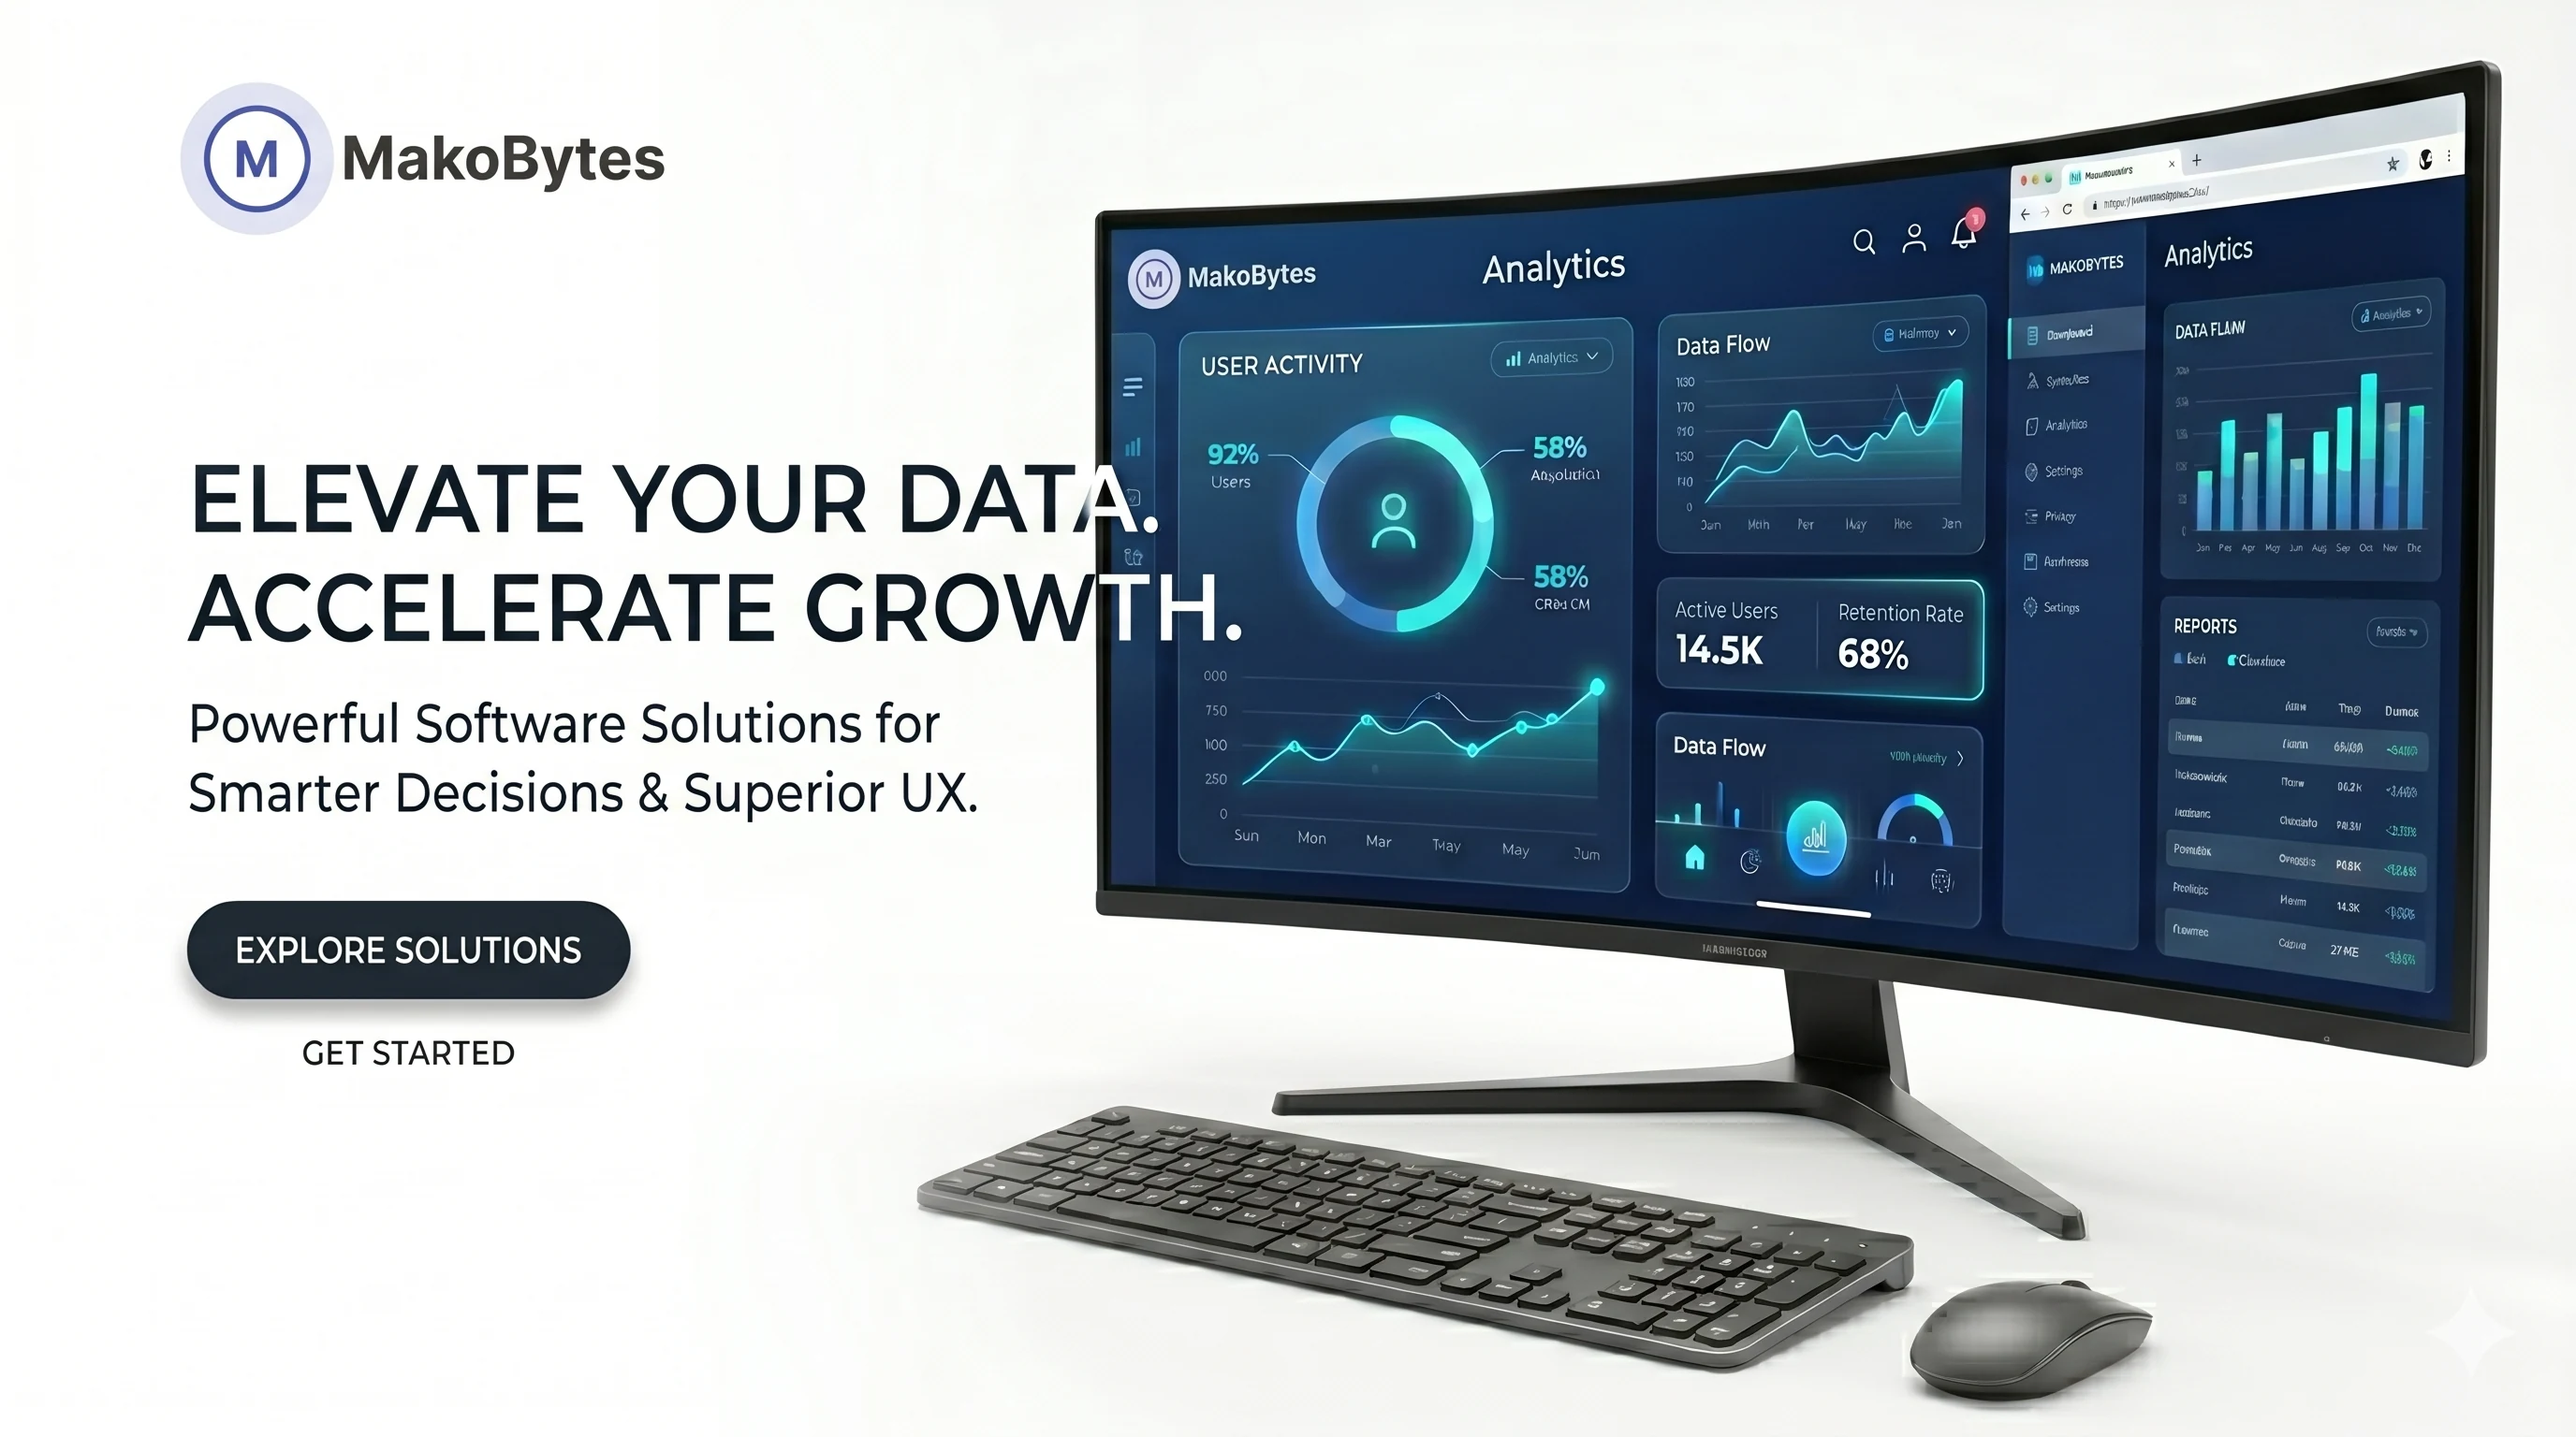
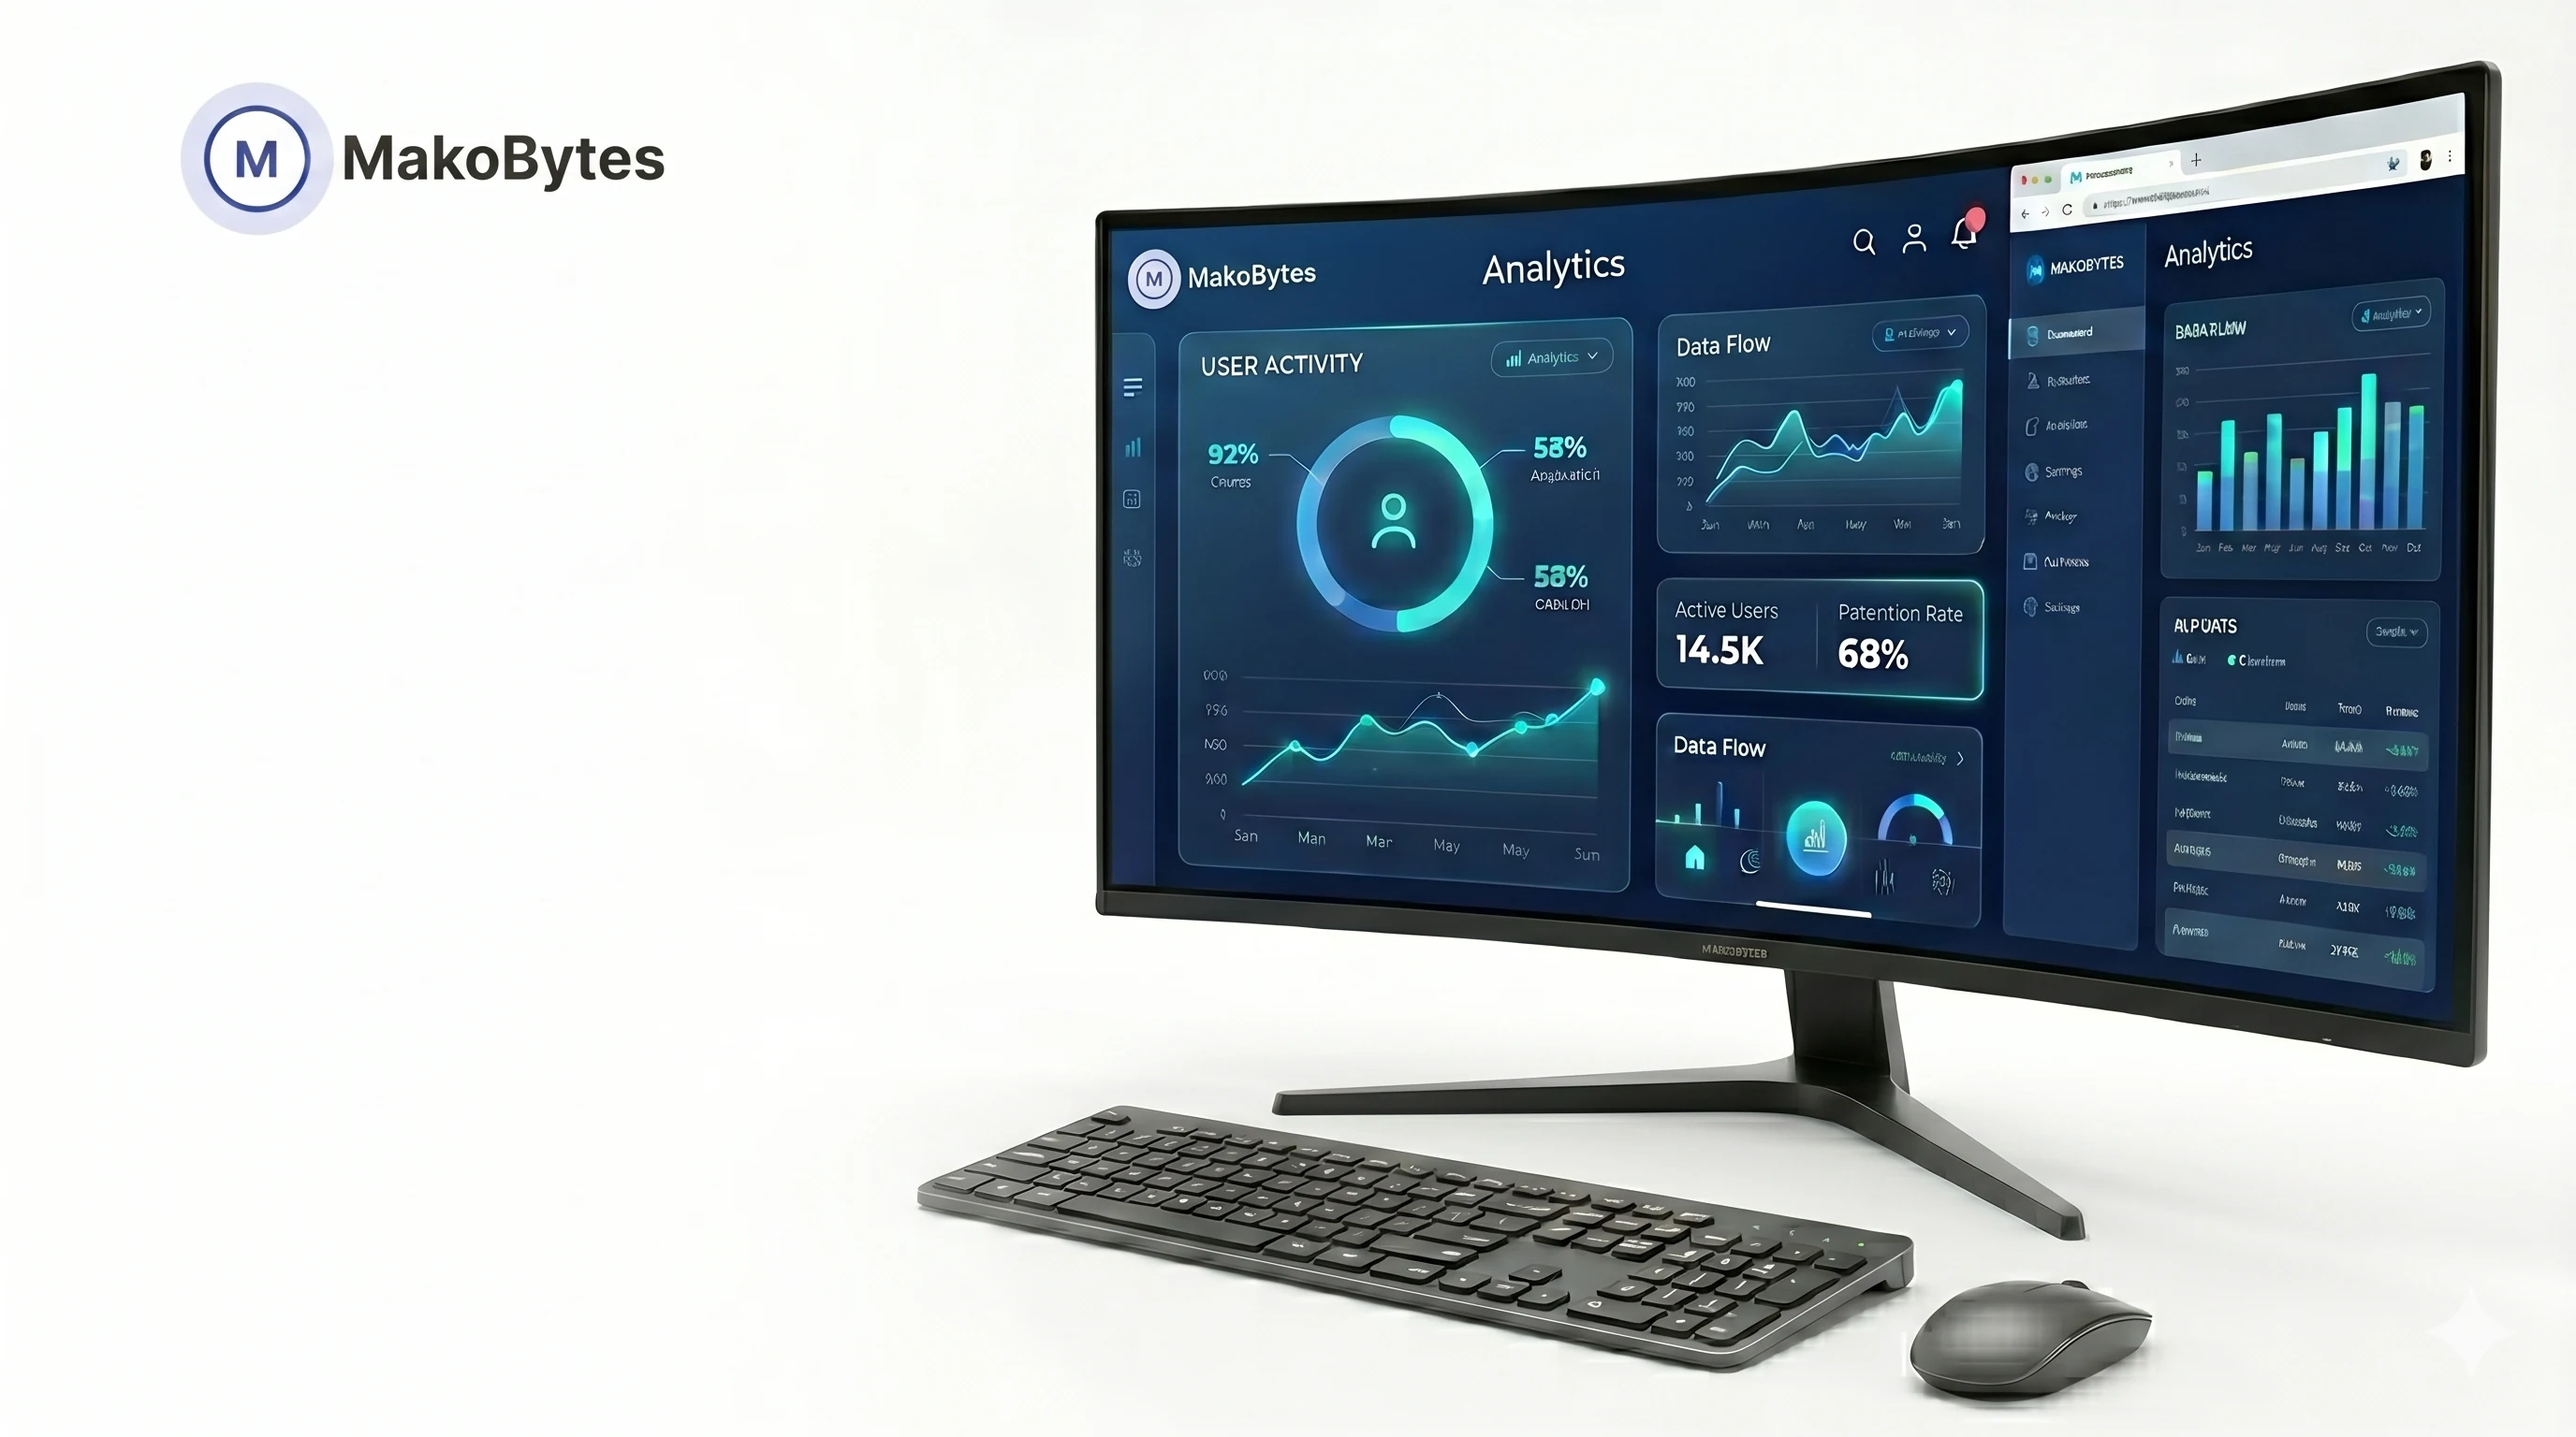
homepage: hero overlay layout — text on left, image as background
Restructures the hero per Russell's requested mockup. The image (new
version with whitespace on the left) now fills the entire hero section
as a background-cover, anchored to the right edge so the curved monitor
sits in the right half. The hero text + buttons + chips overlay on the
left, sitting in the natural whitespace of the image.

A left-to-right white gradient overlay keeps text legible on every
viewport — heavy on mobile (image fades behind the text), lighter on
desktop (lets the monitor breathe through visibly).

- public/images/hero.webp replaced with the new composition (left
  whitespace, monitor on right)
- alt="" + aria-hidden because the image is now decorative; the h1 +
  text below carry the meaning

diff --git a/app/page.tsx b/app/page.tsx
@@ -257,79 +257,79 @@ export default function MakoBytesHub() {
       </nav>
 
       {/* ───── HERO ───── */}
-      <section id="hero" className="relative">
-        {/* Hero banner — contained card sitting under the nav (not full-bleed),
-            cinematic 21:9 aspect to keep it from dominating the viewport. */}
-        <div className="relative pt-20 pb-2 sm:pt-24">
-          <div className="mx-auto max-w-7xl px-6">
-            <div className="relative w-full aspect-[21/9] overflow-hidden rounded-2xl shadow-[0_20px_60px_rgba(0,97,170,0.12)] border border-[#dbdbdb] bg-[#f8f9fb]">
-              <Image
-                src="/images/hero.webp"
-                alt="MakoBytes — premium desktop software studio for AI power users. Analytics dashboard mockup on a curved monitor."
-                fill
-                priority
-                sizes="(min-width: 1280px) 1280px, 100vw"
-                className="object-cover"
-              />
+      <section
+        id="hero"
+        className="relative overflow-hidden pt-24 pb-20 sm:pt-28 sm:pb-28"
+      >
+        {/* Background hero image — anchored right, gradient-faded to white on the
+            left so the text overlay stays legible at every viewport width. */}
+        <div className="pointer-events-none absolute inset-0">
+          <Image
+            src="/images/hero.webp"
+            alt=""
+            aria-hidden="true"
+            fill
+            priority
+            sizes="100vw"
+            className="object-cover object-right"
+          />
+          {/* Left-fade gradient — heavier on mobile (hides the image behind the
+              text), lighter on desktop (lets the monitor breathe through). */}
+          <div className="absolute inset-0 bg-gradient-to-r from-white via-white/95 to-white/60 sm:from-white sm:via-white/85 sm:to-transparent" />
+        </div>
+
+        <div className="relative mx-auto max-w-7xl px-6">
+          <div className="max-w-xl">
+            <div className="inline-flex items-center gap-2 rounded-full border border-[#dbdbdb] bg-[#f8f9fb] px-4 py-1.5">
+              <span className="h-2 w-2 animate-pulse-dot rounded-full bg-[#10B981]" />
+              <span className="mono-tag text-[#555555]">
+                makobytes · desktop studio
+              </span>
+            </div>
+
+            <h1 className="mt-8 text-5xl font-black leading-[0.95] tracking-tight text-[#333333] sm:text-6xl lg:text-7xl">
+              <span className="text-gradient">Lightweight tools</span>
+              <br />
+              <span className="text-gradient">for AI power users.</span>
+            </h1>
+
+            <p className="mt-8 max-w-md text-lg leading-relaxed text-[#555555] sm:text-xl">
+              MakoBytes builds fast, private, one-time-purchase desktop apps that
+              plug into the way you already work. No subscriptions. No bloat. No
+              BS.
+            </p>
+
+            <div className="mt-10 flex flex-wrap items-center gap-3">
+              <a
+                href="#apps"
+                className="btn-glow flex items-center gap-2 rounded-xl px-6 py-3.5 font-semibold"
+              >
+                Browse the catalog
+                <ArrowRight className="h-4 w-4" />
+              </a>
+              <a
+                href="#philosophy"
+                className="flex items-center gap-2 rounded-xl border border-[#dbdbdb] bg-white px-6 py-3.5 font-semibold text-[#555555] transition hover:border-[#777777] hover:text-[#333333]"
+              >
+                What we believe
+              </a>
+            </div>
+
+            <div className="mono-tag mt-10 flex flex-wrap items-center gap-x-6 gap-y-2 text-[#777777]">
+              <span className="flex items-center gap-1.5">
+                <Lock className="h-3.5 w-3.5 text-[#0061aa]" />
+                on-device
+              </span>
+              <span className="flex items-center gap-1.5">
+                <Zap className="h-3.5 w-3.5 text-[#0061aa]" />
+                under 40mb
+              </span>
+              <span className="flex items-center gap-1.5">
+                <Clock className="h-3.5 w-3.5 text-[#0061aa]" />
+                one-time purchase
+              </span>
             </div>
           </div>
-        </div>
-
-        <div className="relative overflow-hidden pt-16 pb-20 sm:pt-20 sm:pb-28">
-          <div className="pointer-events-none absolute inset-0 grid-overlay opacity-50" />
-          <div className="pointer-events-none absolute left-1/2 top-0 h-[700px] w-[700px] -translate-x-1/2 rounded-full bg-[#0061aa]/[0.07] blur-[180px]" />
-
-          <div className="relative mx-auto max-w-5xl px-6 text-center">
-          <div className="inline-flex items-center gap-2 rounded-full border border-[#dbdbdb] bg-[#f8f9fb] px-4 py-1.5">
-            <span className="h-2 w-2 animate-pulse-dot rounded-full bg-[#10B981]" />
-            <span className="mono-tag text-[#555555]">
-              makobytes · desktop studio
-            </span>
-          </div>
-
-          <h1 className="mt-8 text-5xl font-black leading-[0.95] tracking-tight text-[#333333] sm:text-7xl lg:text-8xl">
-            <span className="text-gradient">Lightweight tools</span>
-            <br />
-            <span className="text-gradient">for AI power users.</span>
-          </h1>
-
-          <p className="mx-auto mt-8 max-w-2xl text-lg leading-relaxed text-[#555555] sm:text-xl">
-            MakoBytes builds fast, private, one-time-purchase desktop apps that
-            plug into the way you already work. No subscriptions. No bloat. No
-            BS.
-          </p>
-
-          <div className="mt-10 flex flex-wrap items-center justify-center gap-3">
-            <a
-              href="#apps"
-              className="btn-glow flex items-center gap-2 rounded-xl px-6 py-3.5 font-semibold"
-            >
-              Browse the catalog
-              <ArrowRight className="h-4 w-4" />
-            </a>
-            <a
-              href="#philosophy"
-              className="flex items-center gap-2 rounded-xl border border-[#dbdbdb] bg-white px-6 py-3.5 font-semibold text-[#555555] transition hover:border-[#777777] hover:text-[#333333]"
-            >
-              What we believe
-            </a>
-          </div>
-
-          <div className="mono-tag mt-10 flex flex-wrap items-center justify-center gap-x-6 gap-y-2 text-[#777777]">
-            <span className="flex items-center gap-1.5">
-              <Lock className="h-3.5 w-3.5 text-[#0061aa]" />
-              on-device
-            </span>
-            <span className="flex items-center gap-1.5">
-              <Zap className="h-3.5 w-3.5 text-[#0061aa]" />
-              under 40mb
-            </span>
-            <span className="flex items-center gap-1.5">
-              <Clock className="h-3.5 w-3.5 text-[#0061aa]" />
-              one-time purchase
-            </span>
-          </div>
-        </div>
         </div>
       </section>
 
